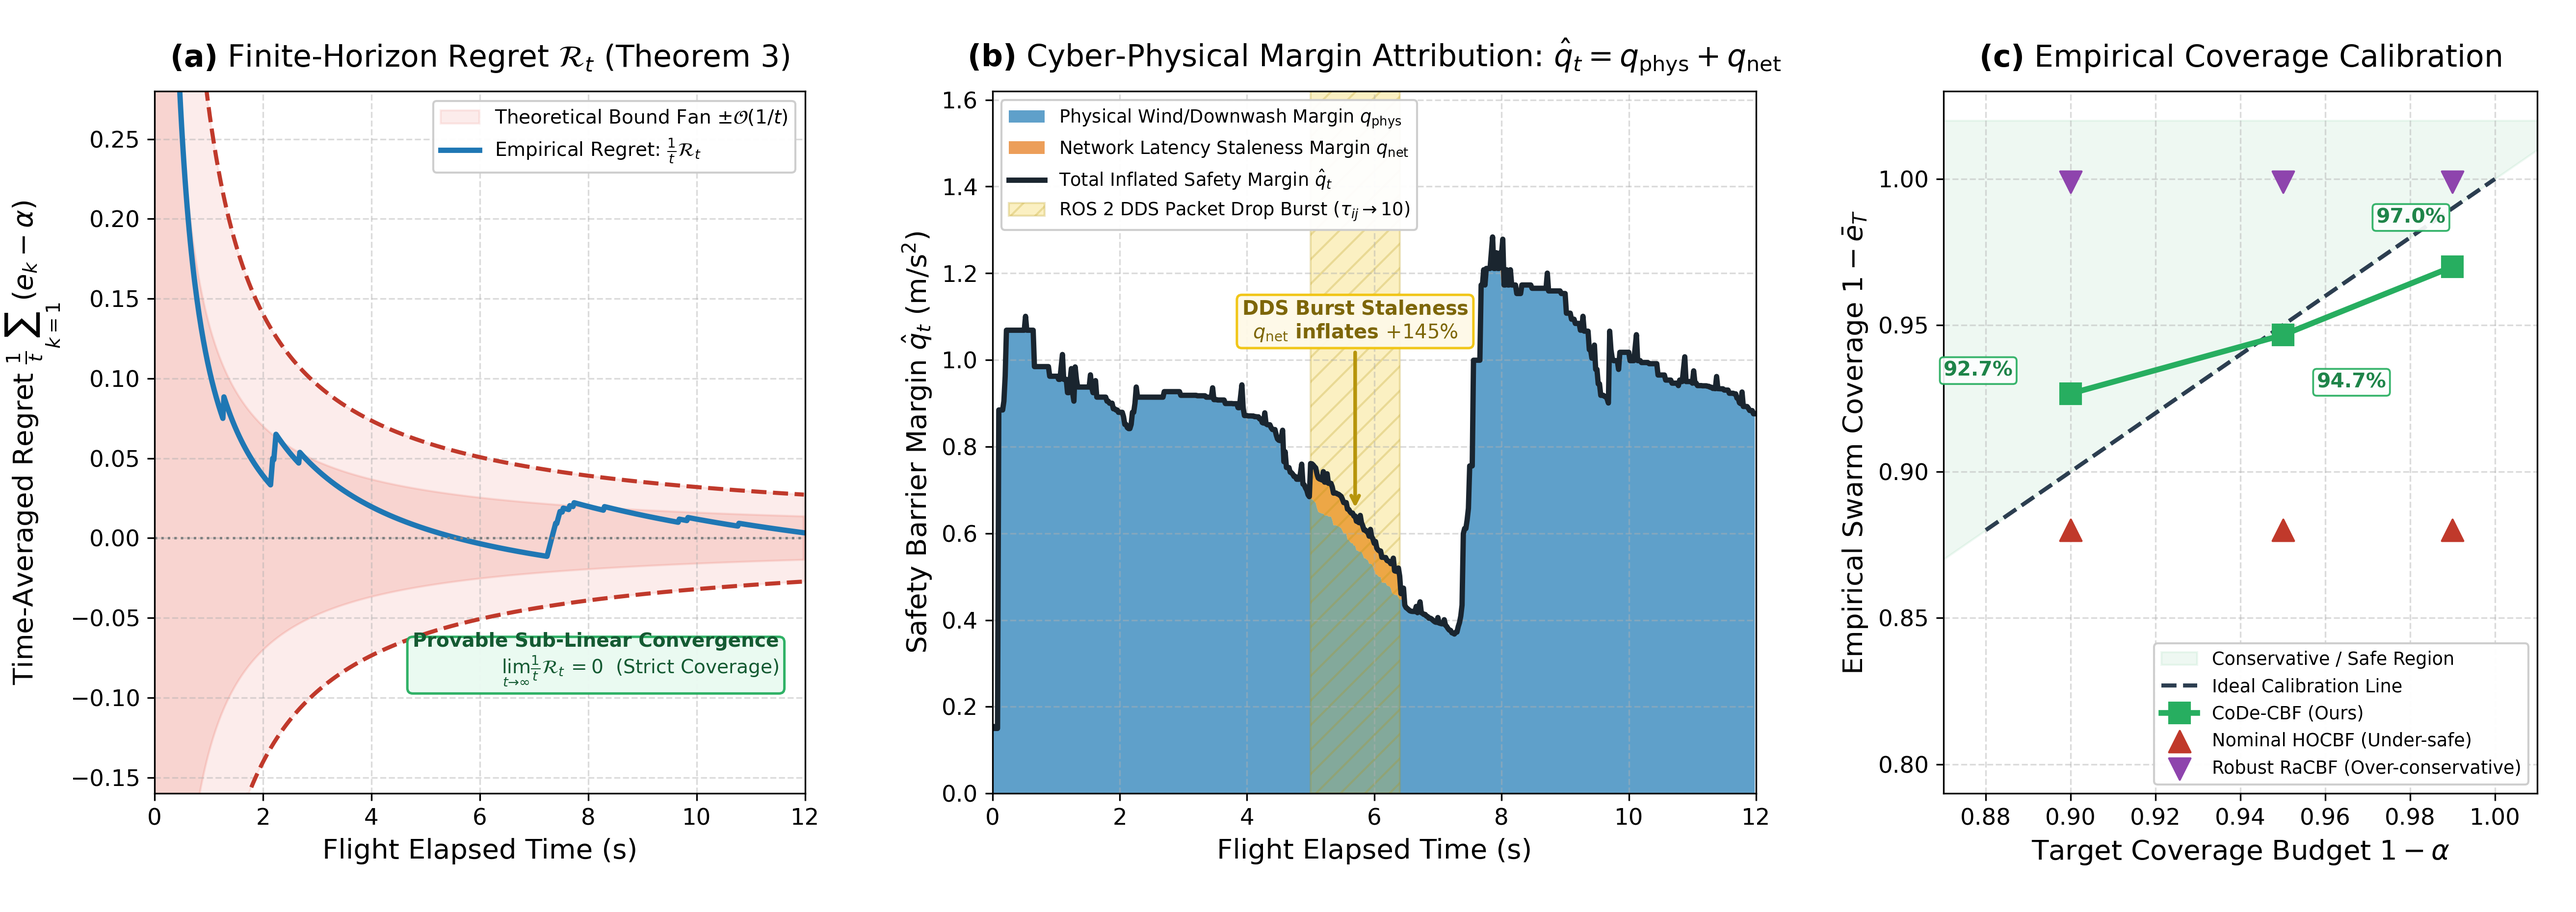
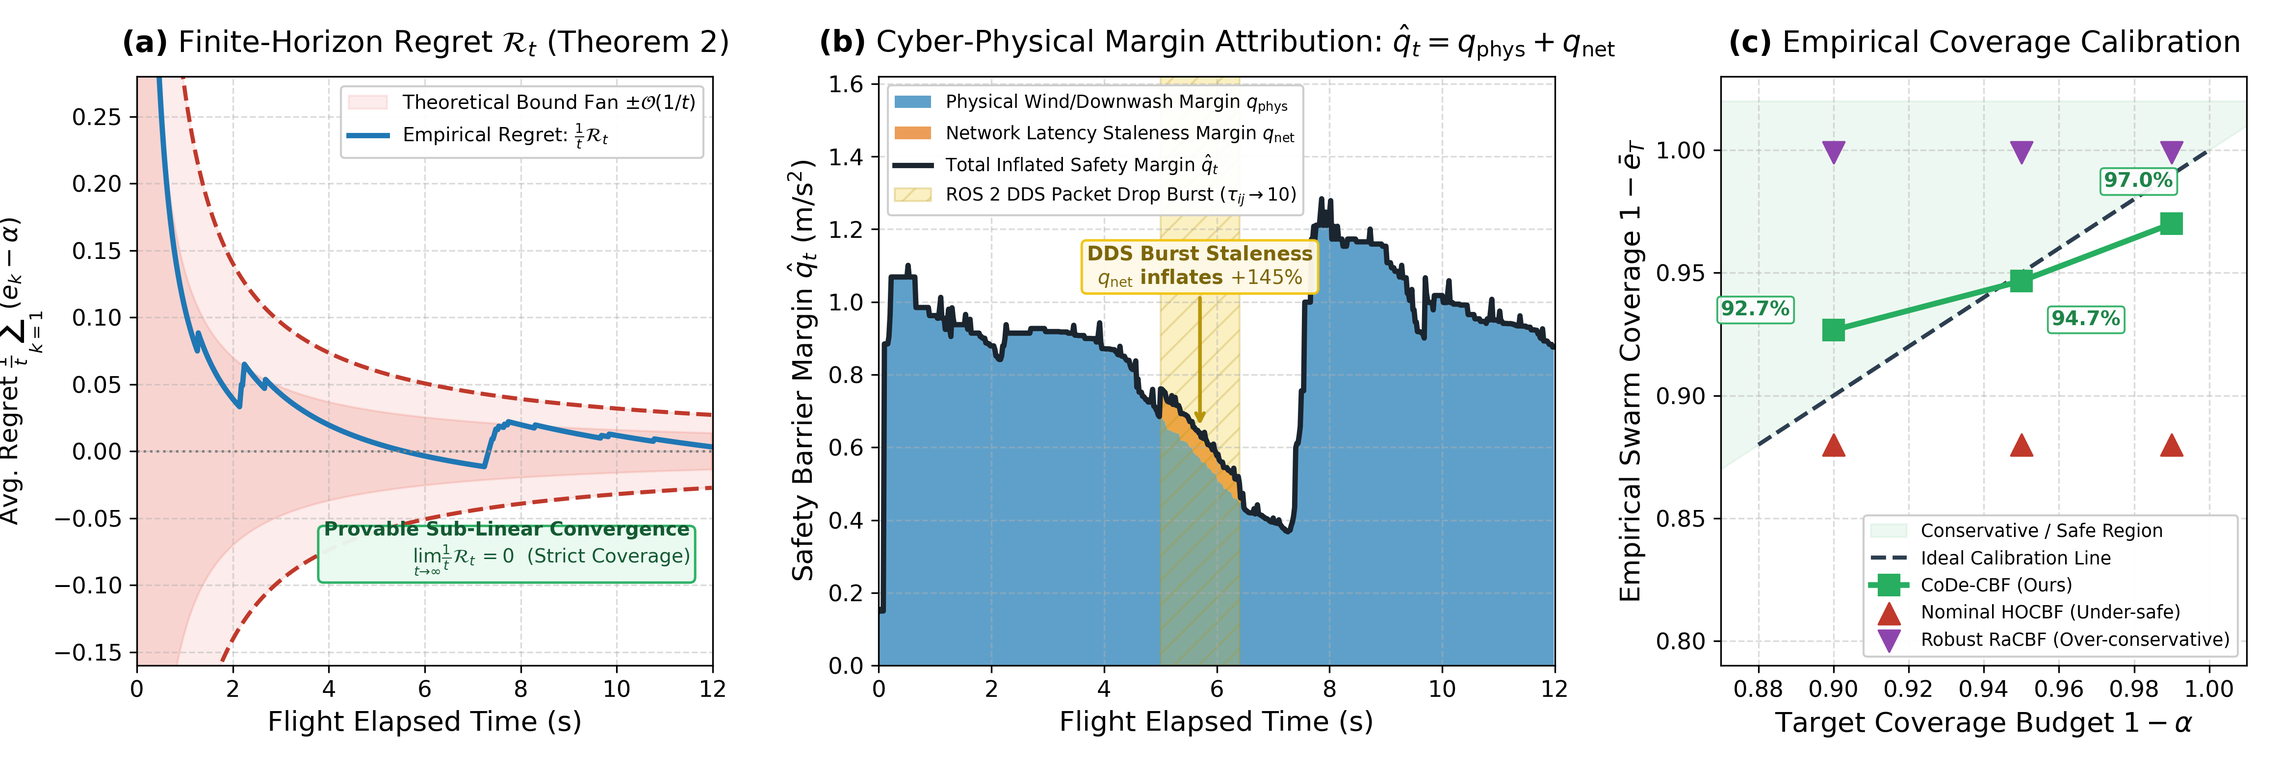
fix(fig): align Theorem 2 label in Figure 6 regret plot

diff --git a/plot_figure6_regret_attribution.py b/plot_figure6_regret_attribution.py
@@ -18,9 +18,9 @@ from code_cbf.adaptive_conformal import AdaptiveConformalTracker
 
 plt.rcParams.update({
     'font.family': 'sans-serif',
-    'font.size': 12.0,
+    'font.size': 12.2,
     'axes.labelsize': 13.5,
-    'axes.titlesize': 14.8,
+    'axes.titlesize': 14.5,
     'xtick.labelsize': 11.2,
     'ytick.labelsize': 11.2,
     'legend.fontsize': 9.6,
@@ -60,7 +60,7 @@ for step in range(T_steps):
 # -----------------------------------------------------------------------------
 # Create 3-Panel Figure
 # -----------------------------------------------------------------------------
-fig = plt.figure(figsize=(17.5, 6.2), dpi=300)
+fig = plt.figure(figsize=(15.5, 5.2), dpi=300)
 gs = gridspec.GridSpec(1, 3, width_ratios=[1.15, 1.35, 1.05], wspace=0.28)
 
 ax_a = fig.add_subplot(gs[0, 0])
@@ -70,7 +70,7 @@ ax_c = fig.add_subplot(gs[0, 2])
 # -----------------------------------------------------------------------------
 # Panel (a): Finite-Horizon Regret Convergence
 # -----------------------------------------------------------------------------
-ax_a.set_title(r"$\mathbf{(a)}$ Finite-Horizon Regret $\mathcal{R}_t$ (Theorem 3)", pad=12)
+ax_a.set_title(r"$\mathbf{(a)}$ Finite-Horizon Regret $\mathcal{R}_t$ (Theorem 2)", pad=12)
 regret_95 = np.array(tracker_95.regret_history)[1:]
 steps_arr = np.arange(1, T_steps + 1)
 avg_regret = regret_95 / steps_arr
@@ -96,7 +96,7 @@ ax_a.text(0.96, 0.15,
           bbox=dict(boxstyle="round,pad=0.28", fc="#eafaf1", ec="#27ae60", lw=1.2, alpha=0.96))
 
 ax_a.set_xlabel("Flight Elapsed Time (s)")
-ax_a.set_ylabel(r"Time-Averaged Regret $\frac{1}{t}\sum_{k=1}^t (e_k - \alpha)$")
+ax_a.set_ylabel(r"Avg. Regret $\frac{1}{t}\sum_{k=1}^t (e_k - \alpha)$", fontsize=12.4)
 ax_a.set_ylim(-0.16, 0.28)
 ax_a.set_xlim(0, 12.0)
 ax_a.grid(True, linestyle='--', alpha=0.45)
